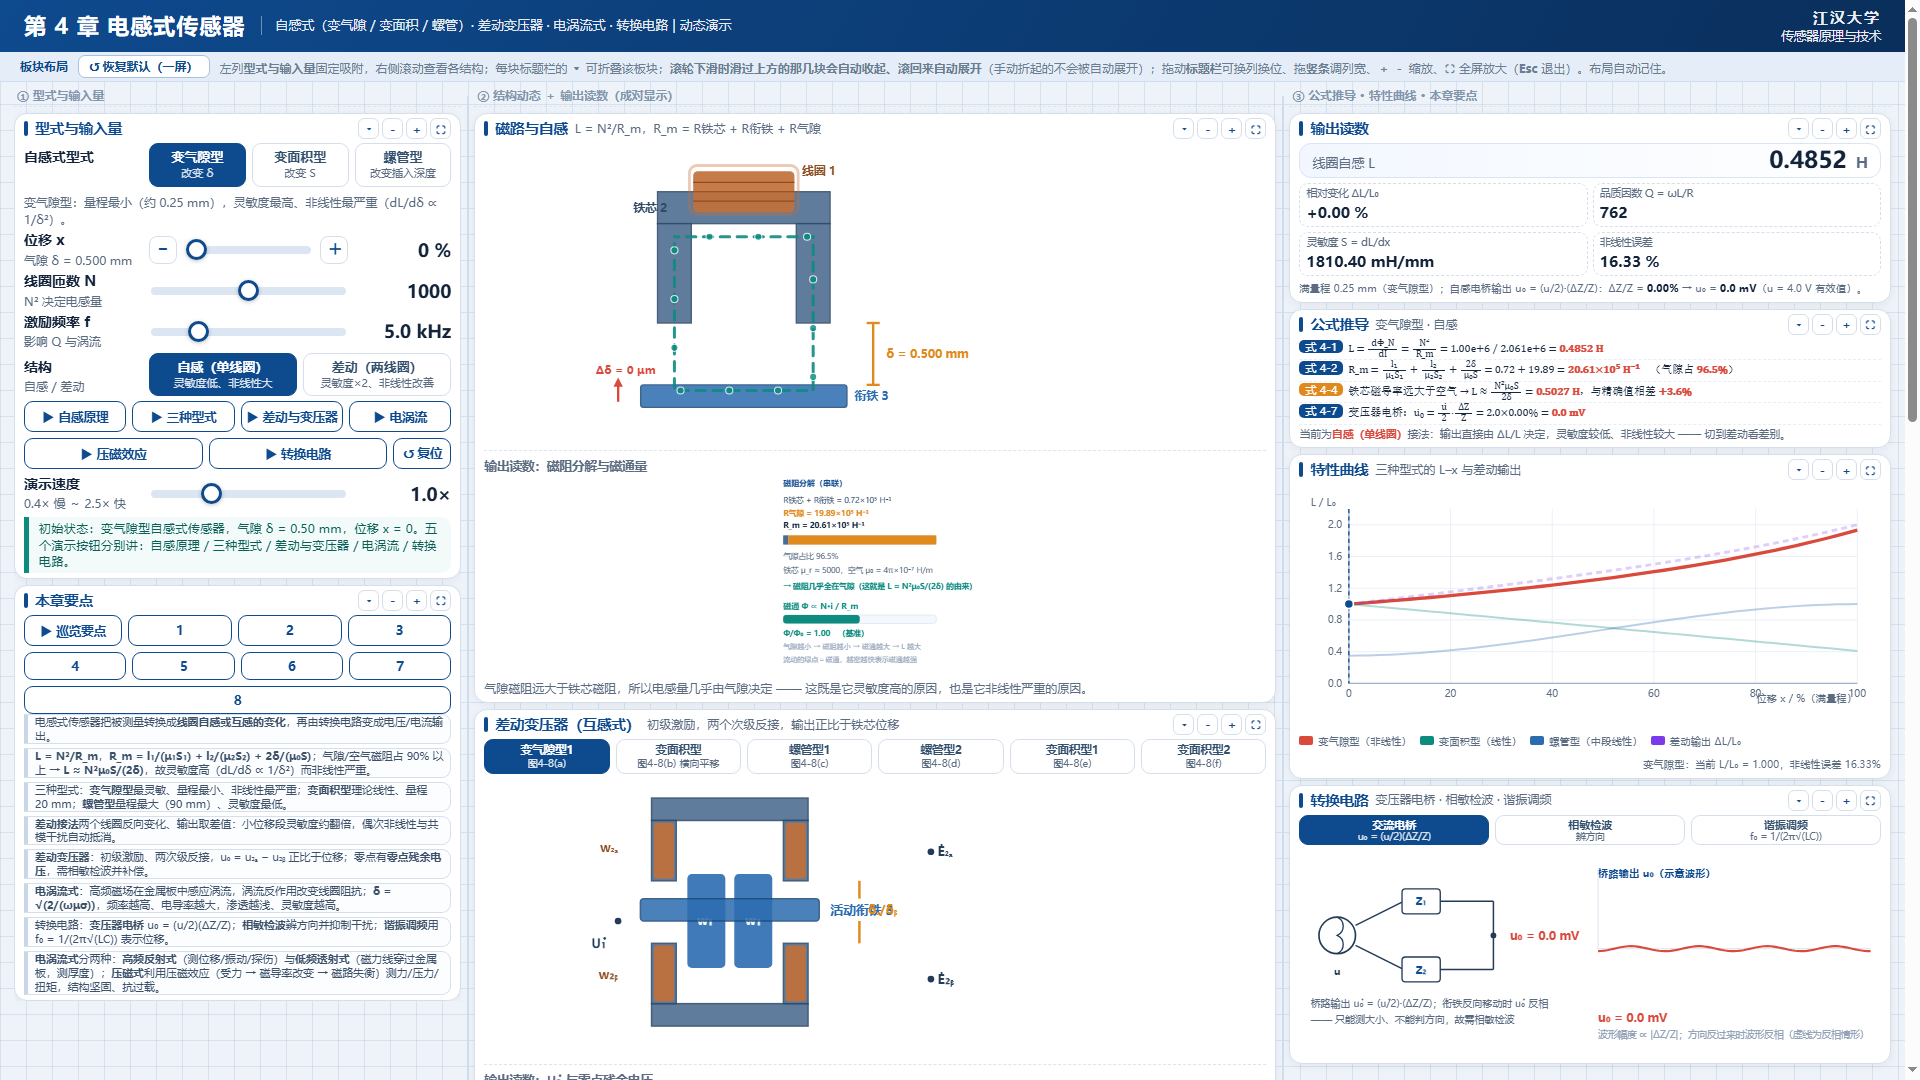
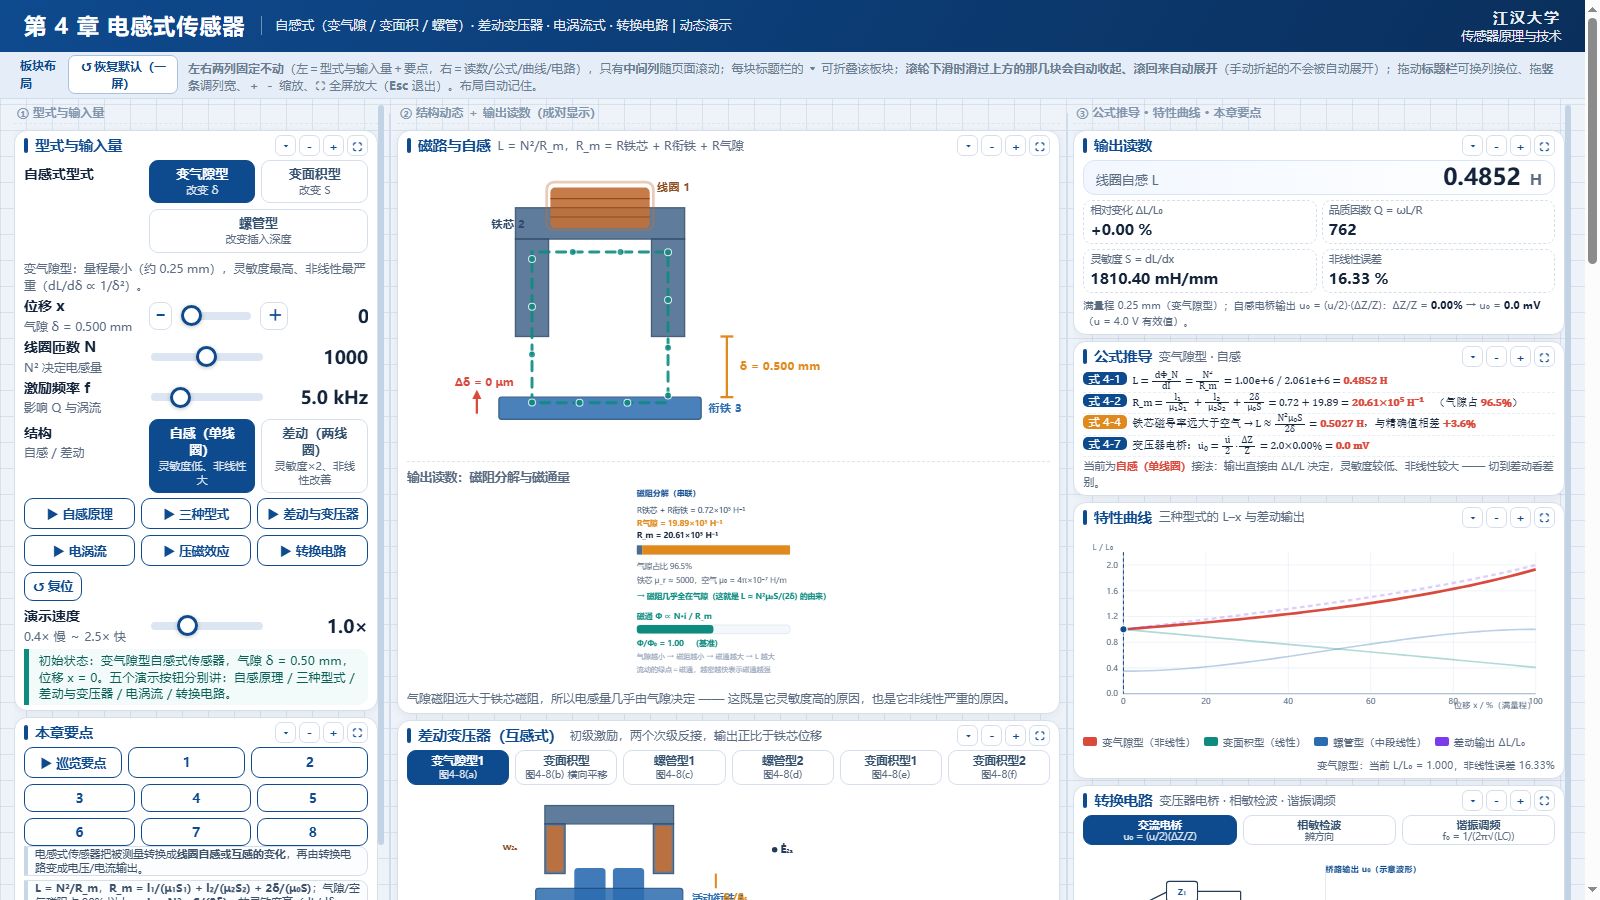
左列与右列都改为吸附固定（投影时左右不动），只有中间列随页面滚动并自动折叠；中间列底部留白 52vh 使最后一张卡片也能滚到屏幕中间

Changed region(s): [[0.0, 0.0, 1.0, 1.0], [0.4688, 0.4044, 0.5, 0.4356], [0.4688, 0.3111, 0.5, 0.3422]]

diff --git a/传感器原理及检测技术/第4章-电感式传感器-动态演示.html b/传感器原理及检测技术/第4章-电感式传感器-动态演示.html
@@ -139,10 +139,13 @@
   #segEddy button, #segPm button{min-width:70px; flex:1 1 70px; padding:2px 4px; font-size:11px; line-height:1.2}
   #segEddy button small, #segPm button small{font-size:9.5px}
   .ptsB{flex:0 0 26px; padding:2px 0; font-size:11px; border-radius:6px}
-  /* 左列（型式与输入量）吸附固定，右侧滚动时始终可见 */
-  #colA{position:sticky; top:6px; align-self:flex-start; max-height:calc(100vh - 16px); overflow-y:auto}
-  #colA::-webkit-scrollbar{width:6px}
-  #colA::-webkit-scrollbar-thumb{background:#c3d3e6; border-radius:3px}
+  /* 左右两列都吸附固定；只有中间列（结构+读数）随页面滚动 */
+  #colA, #colC{position:sticky; top:4px; align-self:flex-start;
+               max-height:calc(100vh - 10px); overflow-y:auto; overscroll-behavior:contain}
+  #colA::-webkit-scrollbar, #colC::-webkit-scrollbar{width:6px}
+  #colA::-webkit-scrollbar-thumb, #colC::-webkit-scrollbar-thumb{background:#c3d3e6; border-radius:3px}
+  /* 中间列底部留白：让最后一张卡片也能滚动到屏幕中间 */
+  #colB{padding-bottom:52vh}
   .panel > .pbody{max-height:2600px; overflow:hidden; transition:max-height .22s ease, opacity .18s ease}
   .panel.folded > .pbody{max-height:0 !important; opacity:0}
   .panel.folded{border-color:#bcd0e5; background:#f8fbff}
@@ -164,7 +167,7 @@
 <div id="laybar">
   <span style="font-weight:700;color:#0e4a8e">板块布局</span>
   <button id="layReset">↺ 恢复默认（一屏）</button>
-  <span class="hint">左列<b>型式与输入量</b>固定吸附，右侧滚动查看各结构；每块标题栏的 <b>▾</b> 可折叠该板块；<b>滚轮下滑时滑过上方的那几块会自动收起、滚回来自动展开</b>（手动折起的不会被自动展开）；拖动<b>标题栏</b>可换列换位、拖<b>竖条</b>调列宽、<b>＋ －</b> 缩放、<b>⛶</b> 全屏放大（<b>Esc</b> 退出）。布局自动记住。</span>
+  <span class="hint"><b>左右两列固定不动</b>（左＝型式与输入量＋要点，右＝读数/公式/曲线/电路），只有<b>中间列</b>随页面滚动；每块标题栏的 <b>▾</b> 可折叠该板块；<b>滚轮下滑时滑过上方的那几块会自动收起、滚回来自动展开</b>（手动折起的不会被自动展开）；拖动<b>标题栏</b>可换列换位、拖<b>竖条</b>调列宽、<b>＋ －</b> 缩放、<b>⛶</b> 全屏放大（<b>Esc</b> 退出）。布局自动记住。</span>
 </div>
 
 <div id="boardWrap">
@@ -2361,7 +2364,7 @@
     var vh = window.innerHeight || 900;
     IDS.forEach(function(id){
       var p = el(id); if (!p) return;
-      if (p.parentNode && p.parentNode.id === 'colA') return;      /* 左列吸附列：始终展开 */
+      if (!p.parentNode || p.parentNode.id !== 'colB') return;    /* 只有中间列参与自动折叠（左右两列固定不动） */
       var r = p.getBoundingClientRect();
       if (r.bottom < 90){                                          /* 整块滑到上方之外 → 收起 */
         if (!p.classList.contains('folded')) setFold(p, true);
